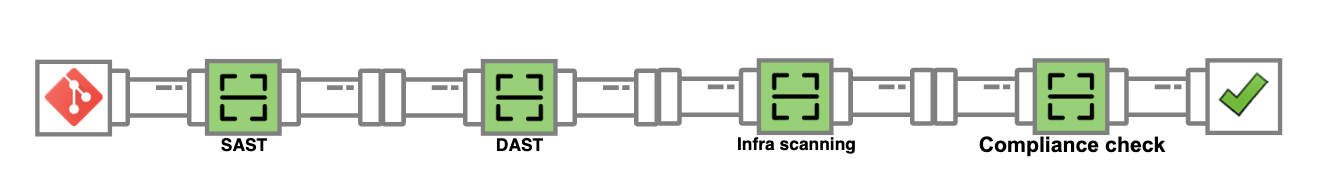
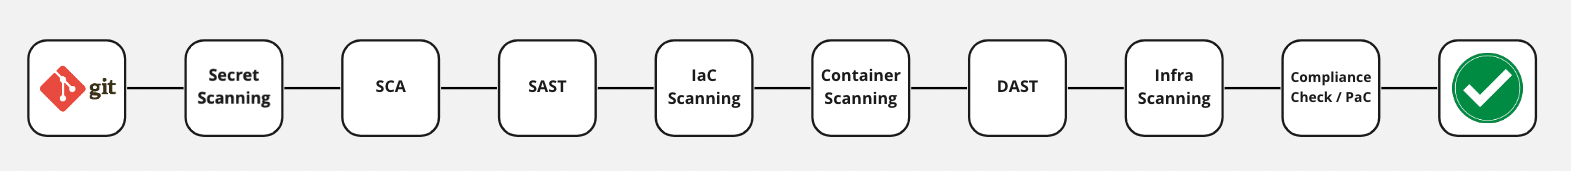
Update readme + intro.

diff --git a/README.md b/README.md
@@ -1,10 +1,12 @@
 # OWASP DevSecOps Guideline
-The OWASP DevSecOps Guideline focuses on explaining how we can implement a secure pipeline and using best practices and introduce tools that we can use in this matter. Also, the project trying to help us for promoting the shift-left security culture in our development process.  
-This project helps any companies in each size that have development pipeline or in other words have DevOps pipeline.
-During this project, we try to draw a perspective of a secure DevOps pipeline and then improve it based on our customized requirements.
+The OWASP DevSecOps Guideline explains how we can implement a secure pipeline and use best practices and introduce tools that we can use in this matter. Also, the project is trying to help us promote the shift-left security culture in our development process.  
+This project helps any companies of each size that have a development pipeline or, in other words, have a DevOps pipeline.
+We try to draw a perspective of a secure DevOps pipeline during this project and then improve it based on our customized requirements.  
+
+The Ideal goal is **"detect security issues (by design or application vulnerability) as fast as possible."**
 
 ## Initial steps
-DevSecOps is all about putting security into DevOps. But to keep up with the pace of CI/CD security has to be injected early, into software writing and testing.
+DevSecOps is all about putting security into DevOps. But to keep up with the pace of CI/CD, security has to be injected early into software writing and testing.
 
 ![DevSecOps cycle](/assets/images/DevSecOps-cycle.png)
 
@@ -14,20 +16,21 @@ You can also follow the [OWASP Software Assurance Maturity Model (SAMM)](https:/
 
 ## What to add in a pipeline
 ![DevSecOps pipeline](/assets/images/DevSecOps-pipeline.png)
-At first, we consider to implement the following steps in a basic pipeline:
-* Take care secrets and credentials in git repositories
+At first, we consider implementing the following steps in a basic pipeline:
+* Scan git repositories for finding potential credentials leakage. 
 * SAST (Static Application Security Test)
 * SCA (Software Composition Analysis)
 * IAST (Interactive Application Security Testing)
 * DAST (Dynamic Application Security Test)
+* IaC Scanning (Scanning Terraform, HelmChart code to find misconfiguration)
 * Infrastructure scanning
 * Compliance check
 
-We can customize the steps of our pipeline according to our Software Development Life Cycle (SDLC) or software architecture and add automation progressively if we are just starting out.
-For instance we can switch from SAST/DAST to a regular test suite with built-in security controls or add an audit script checking for known vulnerable dependencies.
+We can customize the steps of our pipeline according to our Software Development Life Cycle (SDLC) or software architecture and add automation progressively if we are starting.
+For instance, we can switch from SAST/DAST to a regular test suite with built-in security controls or add an audit script checking for known vulnerable dependencies.
 
-CI/CD is an advantage for SecOps, being a privileged entry point for security measures and controls.
-However, when using CI/CD tools to provide automation keep in mind that the tools themselves often expand your attack surface, so put security controls on building, deployment and automation software too.
+CI/CD is an advantage for SecOps, a privileged entry point for security measures and controls.
+However, when using CI/CD tools to provide automation, keep in mind that the tools themselves often expand your attack surface, so put security controls on building, deployment, and automation software.
 
 ---
-The project page in OWASP website is [here](https://owasp.org/www-project-devsecops-guideline/)
+The project page on the OWASP website is [here](https://owasp.org/www-project-devsecops-guideline/)

diff --git a/document/00-Intro.md b/document/00-Intro.md
@@ -1,3 +1,5 @@
 ## Introduction to the OWASP DevSecOps Guideline  
-The OWASP DevSecOps Guideline focuses on explaining how we can implement a secure pipeline and using best practices and introduce tools that we can use in this matter. Also, the project trying to help us for promoting the shift-left security culture in our development process.
-This project helps any companies in each size that have development pipeline or in other words have DevOps pipeline. During this project, we try to draw a perspective of a secure DevOps pipeline and then improve it based on our customized requirements.  
+The OWASP DevSecOps Guideline explains how we can implement a secure pipeline and use best practices and introduce tools that we can use in this matter. Also, the project is trying to help us promote the shift-left security culture in our development process.
+This project helps any companies of each size that have a development pipeline or, in other words, have a DevOps pipeline. We try to draw a perspective of a secure DevOps pipeline during this project and then improve it based on our customized requirements.  
+
+The Ideal goal is **"detect security issues (by design or application vulnerability) as fast as possible."**
